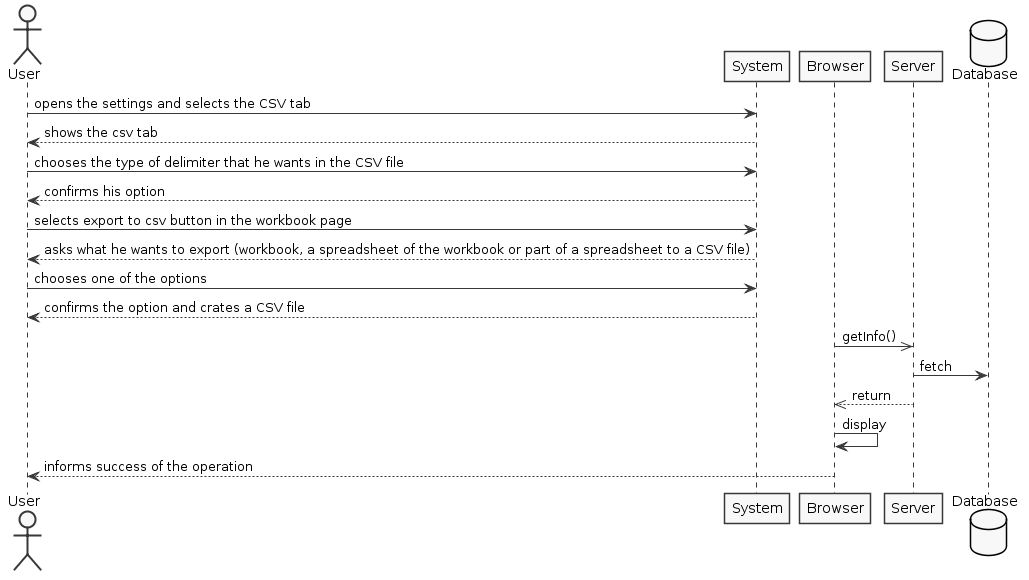
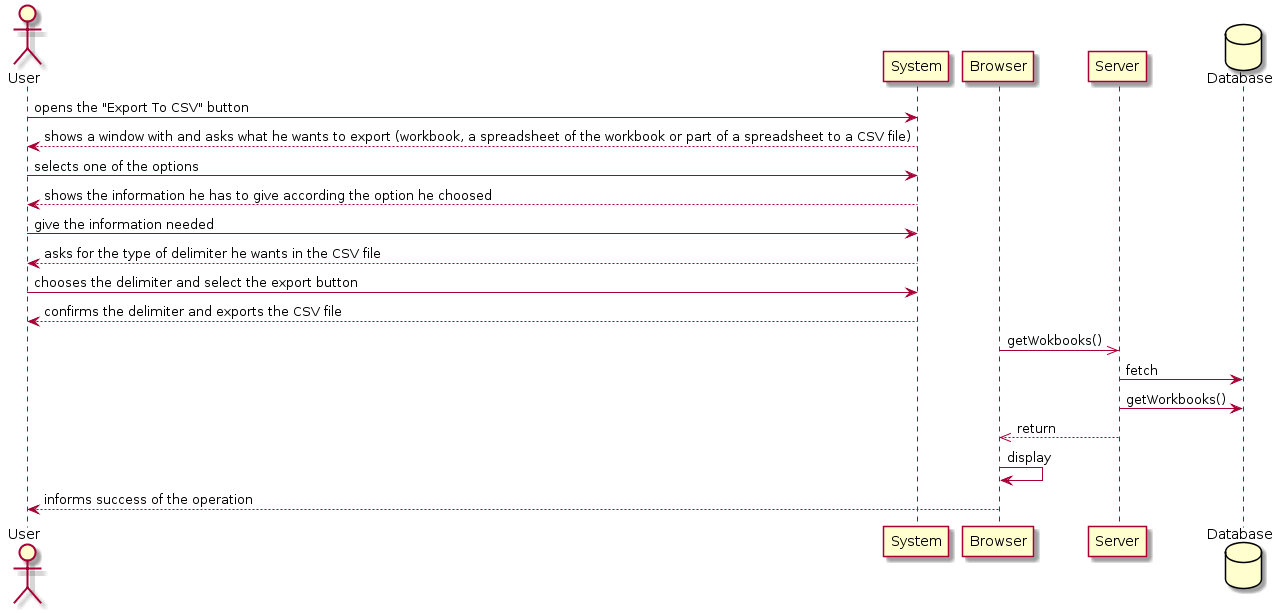
[Analysis and Design][Issue #37] Final documentation commit

diff --git a/docs/green/s1160696/sp1/README.md b/docs/green/s1160696/sp1/README.md
@@ -50,40 +50,30 @@ For this project i had to understand how the application works and also understa
 
 **For US1**
 
-![Analysis SD](analysis.png)
+![Analysis SSD](analysis.png)
 
 # 4. Design
 
 ## 4.1. Tests
 
-**Domain Classes**
-
-- Form
-		pt.isep.nsheets.shared.lapr4.blue.s1.lang.n1150585.forms
-		TestForm
-
-
-- FormEditorController
-		pt.isep.nsheets.shared.lapr4.blue.s1.lang.n1150585.forms
-		TestFormEditorController
-
+- No tests were implemented because when the user clicks on the export button it already downloads the file (.csv).
 
 ## 4.2. Requirements Realization
 
 **For US1**
 
-![SD US1](design1.png)
+![SD](design.png)
 
 Notes:  
 
-- **WorkBookView** is the view whe appears the button and its implementation ;    
+- **WorkBookView** is the view whe appears the button and its implementation;    
 - **ExportToCSV** is the class that has the methods to export;
 - **Workbook** is a class.
 
 
 ## 4.3. Classes
 
-- **WorkBookView** is the view whe appears the button and its implementation ;    
+- **WorkBookView** is the view whe appears the button and its implementation;    
 - **ExportToCSV** is the class that has the methods to export;
 - **Workbook** is a class.
 -	**WorkbookView.ui** - XML scheme of the workbook view.
